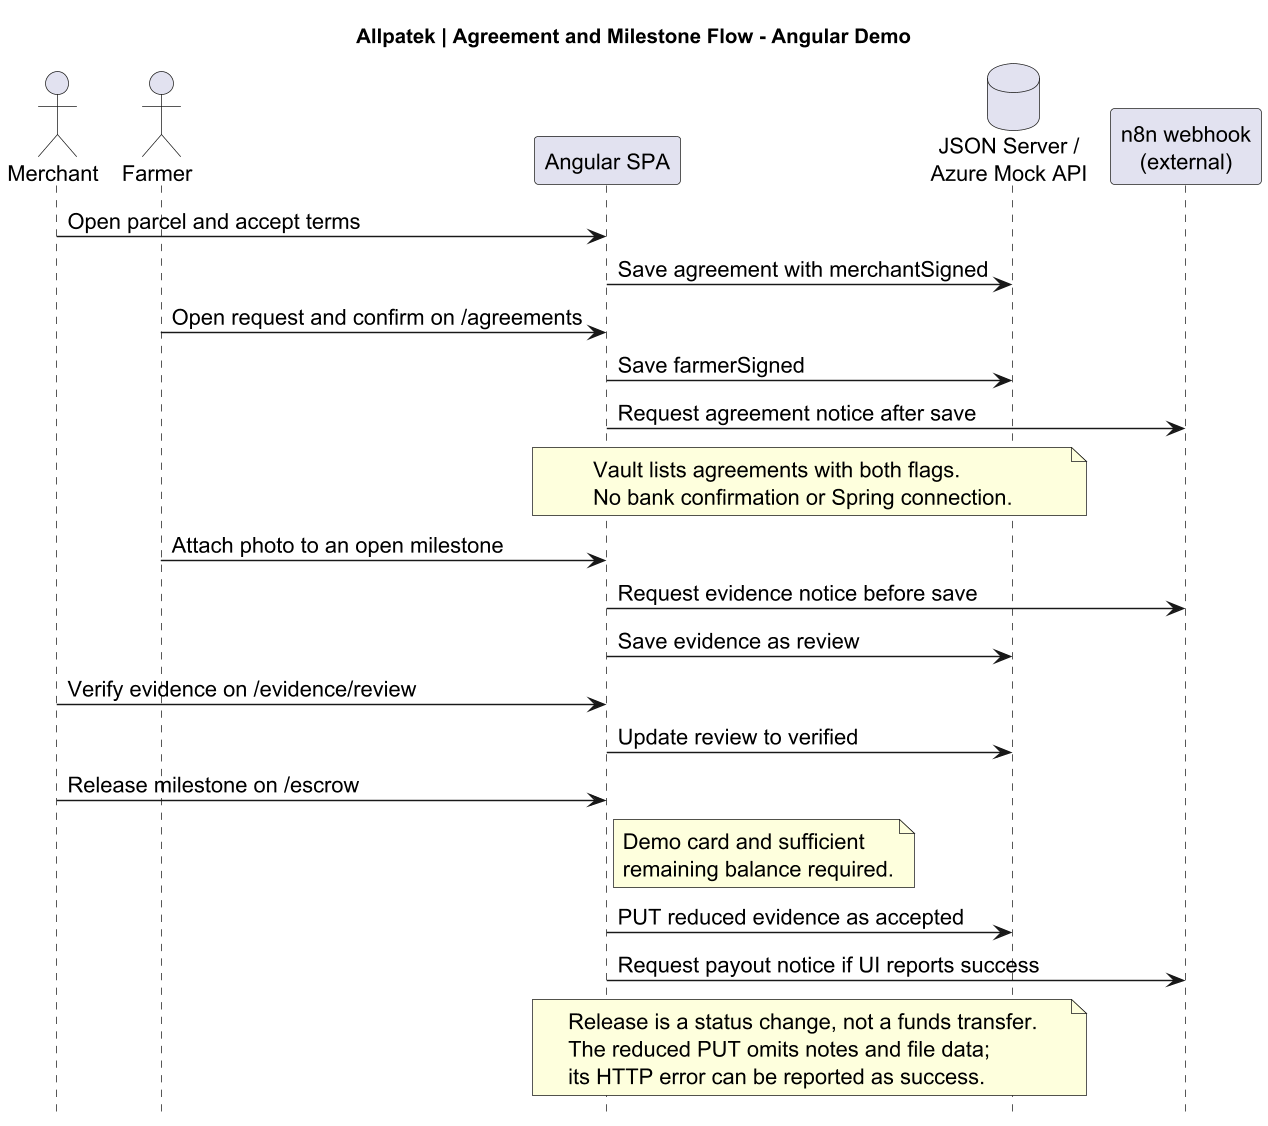
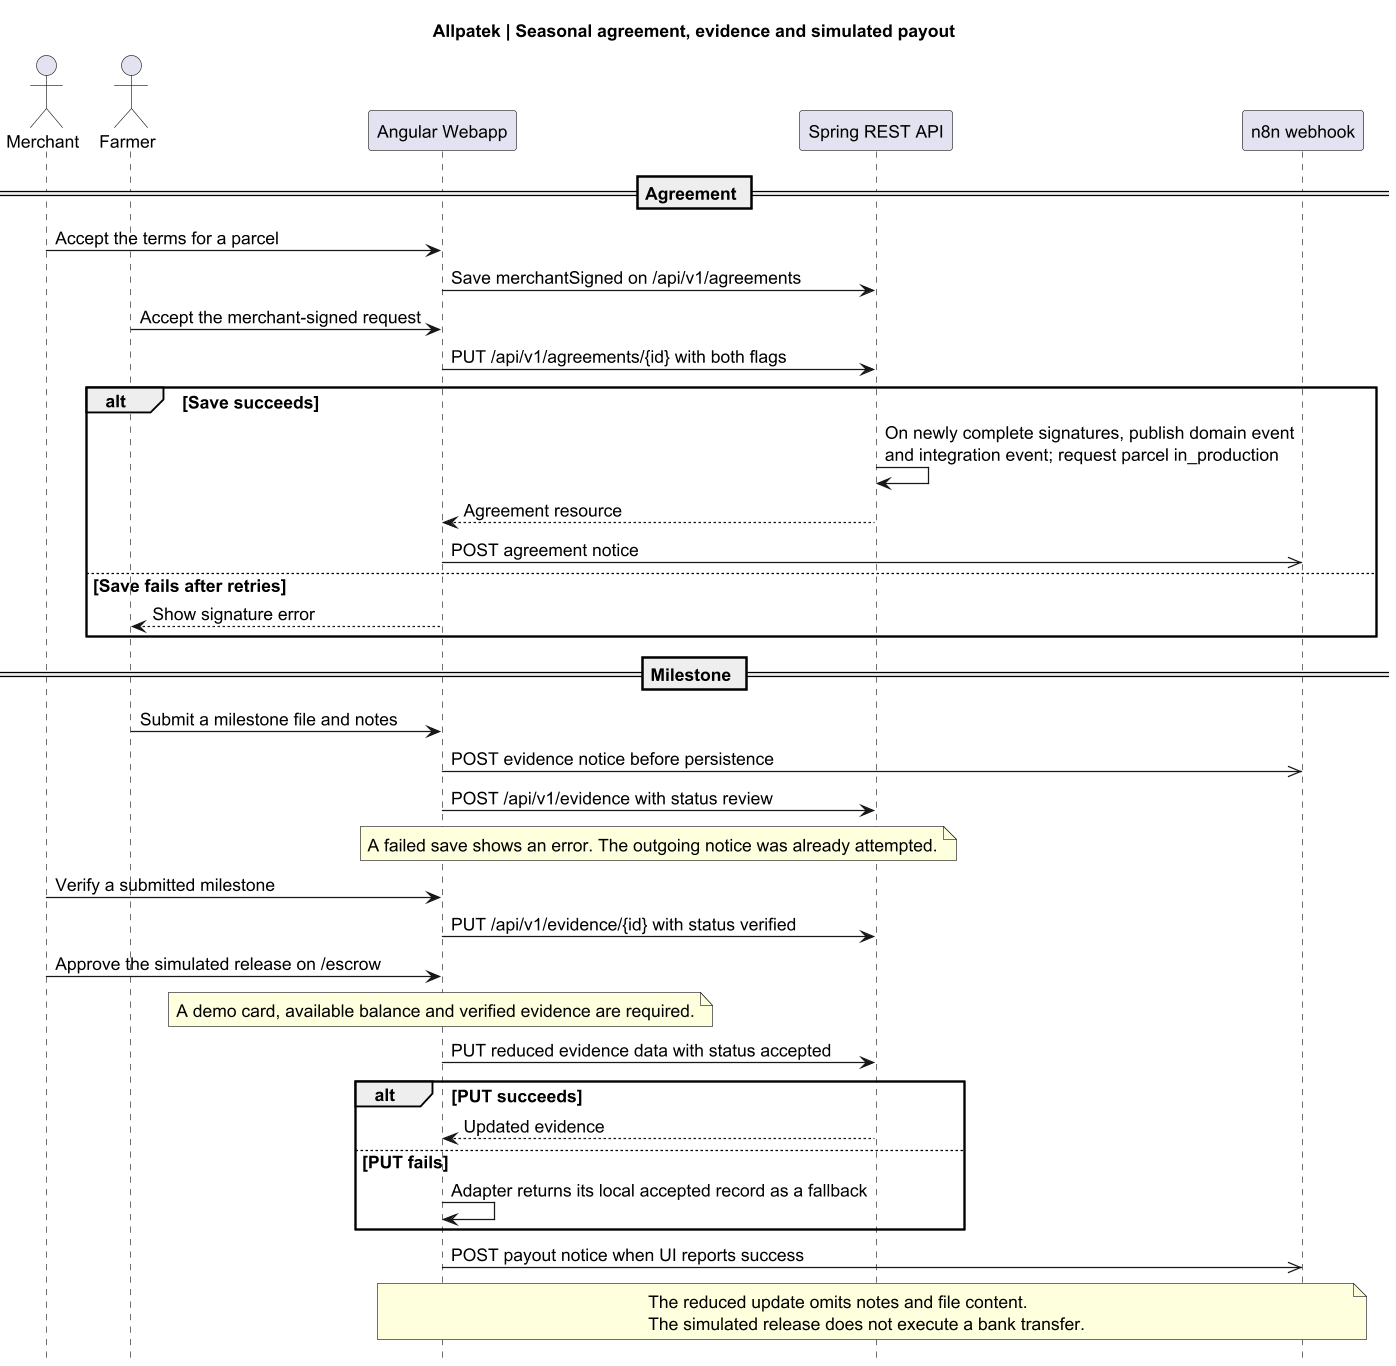
docs(flows): trace agreement and evidence writes through Spring

diff --git a/README.md b/README.md
@@ -1973,14 +1973,14 @@ En esta sección se presenta la propuesta formal de User Flows mapeados a partir
 
 | Actor | Ruta | Qué ocurre |
 |---|---|---|
-| Ambos | /login, /register, /profile | La selección del rol carga un perfil ficticio. La sesión se conserva en el navegador; no hay verificación de contraseña. |
+| Ambos | /login, /register, /profile | El inicio de sesión carga el perfil de agricultor de demostración. En el registro se selecciona el rol. La sesión se conserva en el navegador. |
 | Agricultor | /parcels/new, /parcels/:id/edit | Ingresa datos, cultivos y coordenadas, que puede completar por departamento o GPS. Puede adjuntar fotos; hay una imagen por defecto. La pantalla vuelve al catálogo si la API confirma el guardado. |
 | Comerciante y agricultor | /parcels/:id, /agreements, /agreements/merchant | El comerciante abre el acuerdo desde el detalle de parcela. El agricultor revisa la solicitud en /agreements/merchant y confirma en /agreements. Se almacenan dos indicadores de aceptación. |
 | Agricultor y comerciante | /evidence/new, /evidence/review, /escrow | El agricultor adjunta una imagen. El comerciante verifica la evidencia y luego marca la liberación simulada en la bóveda. |
-| Comerciante | /escrow/deposit | Registra tarjeta enmascarada y un monto de demostración. No se carga una tarjeta ni se mueve dinero. |
+| Comerciante | /escrow/deposit | Registra una tarjeta ficticia y un monto de demostración. La interfaz abrevia el número al mostrarlo. La API conserva los datos de prueba. |
 | Agricultor | /alerts | Consulta pronóstico para sus parcelas con coordenadas utilizables. La SPA usa Open-Meteo directamente, sin sensores propios ni un historial de alertas. |
 
-En el flujo de evidencias, la UI usa review → verified → accepted. El acceso a evidencias se apoya en la aceptación del comerciante; la bóveda lista acuerdos con ambas aceptaciones y exige una tarjeta de demo y saldo disponible para marcar la liberación. El PUT reducido de liberación no incluye notas ni archivo, y el frontend transforma un error HTTP en un resultado exitoso. Esto puede provocar una falsa confirmación o perder información si se conecta al backend actual. La transición debería guardar solo el nuevo estado, preservar la evidencia y mostrar éxito únicamente tras una respuesta válida.
+En el flujo de evidencias, la UI usa review → verified → accepted. El acceso a evidencias se apoya en la aceptación del comerciante; la bóveda lista acuerdos con ambas aceptaciones y exige una tarjeta de demo y saldo disponible para marcar la liberación. El PUT reducido de liberación no incluye notas ni archivo, y el frontend transforma un error HTTP en un resultado exitoso. Con la API Spring configurada, el aviso puede indicar éxito aunque falle la escritura. Si el servidor acepta el reemplazo, se pueden perder las observaciones o el archivo omitidos. La transición debería guardar solo el nuevo estado, preservar la evidencia y mostrar éxito únicamente tras una respuesta válida.
 
 ![Figura 4.4.4-A. Acuerdo, evidencia y liberación simulada](assets/chapter-04/architecture/18-flow-agreement-evidence.png)
 
